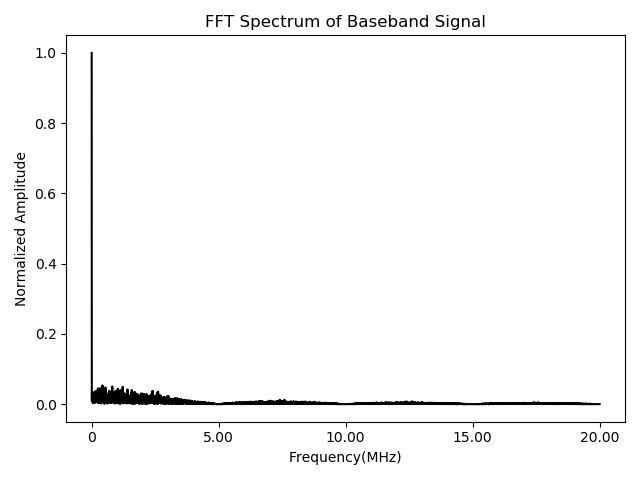
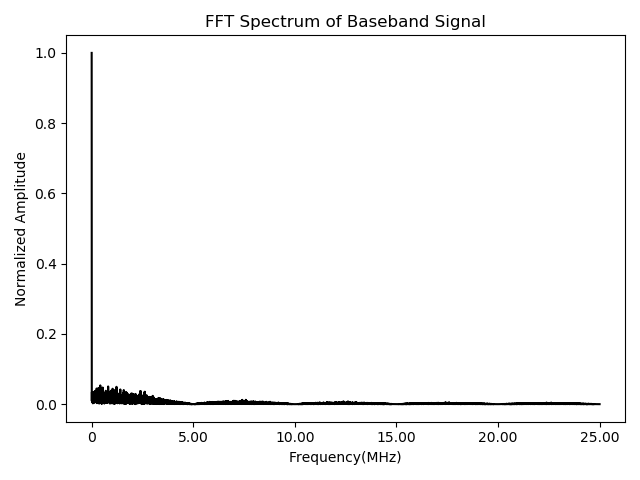
Modulation Completed.

diff --git a/CSModel/CommunicationModel.py b/CSModel/CommunicationModel.py
@@ -50,16 +50,16 @@ class Communication:
         t = np.linspace(0, self.config['TB'] * number, len(baseband))
         __list1 = np.cos(2 * np.pi * self.config['f_c1'] * t)
         if self.config['Modulation'] == '2fsk':
-            baseband2 = 1- baseband
+            baseband2 = 1 - baseband
             __list2 = np.cos(2 * np.pi * self.config['f_c2'] * t)
             modulated = __list2 * baseband + __list1 * baseband2
         else:
             baseband2 = (baseband - 0.5) * 2
             modulated = baseband2 * __list1
+        # PT(0.001W) == 1/2 * Amp^2
+        return modulated * np.sqrt(self.config['PT'] * 2)
 
-        return modulated
-
-    def process(self):
+    def transmitted_to_reciver(self):
         self.__attenuation__()
 
 
@@ -83,10 +83,10 @@ def showsignal(t, y, f_B, figure_num=1, tilte='Hello'):
     fftsize = max(__fftsize_list)  # Find a number less than len(y) and happened to be 2^N for fft.
     y2 = abs(np.fft.rfft(y[0:fftsize]))
     y2 = y2/max(y2)  # Amplitude normalization. y2.shape = fftsize(even)/2+1
-    freqs = np.linspace(0,  4*f_B, int(fftsize/2 + 1))[0:int(8*len(y2)/Communication.fs)]
+    freqs = np.linspace(0,  5 * f_B, int(fftsize/2 + 1))[0:int(10 * len(y2)/Communication.fs)]
     y2 = y2[0:len(freqs)]
-    plt.xticks(np.linspace(0, freqs[-1], 5),
-               ["0"]+['%.2f' % (i * f_B/1e6) for i in range(1, 5)])
+    plt.xticks(np.linspace(0, freqs[-1], 6),
+               ["0"]+['%.2f' % (i * f_B/1e6) for i in range(1, 6)])
     plt.xlabel("Frequency(MHz)")
     plt.ylabel("Normalized Amplitude")
     # print(freqs.shape, )

diff --git a/BFSK.py b/BFSK.py
@@ -29,5 +29,6 @@ baseband, num = bfsk.RandomSequence()
 # cm.showsignal(bfsk.config['t'], baseband, bfsk.config['f_B'], figure_num=1, tilte='Baseband Signal')
 
 modulated_seq = bfsk.modulation(num, baseband)
+# cm.showsignal(bfsk.config['t'], modulated_seq, bfsk.config['f_B'], figure_num=1, tilte='Modulated Signal')
 
 
